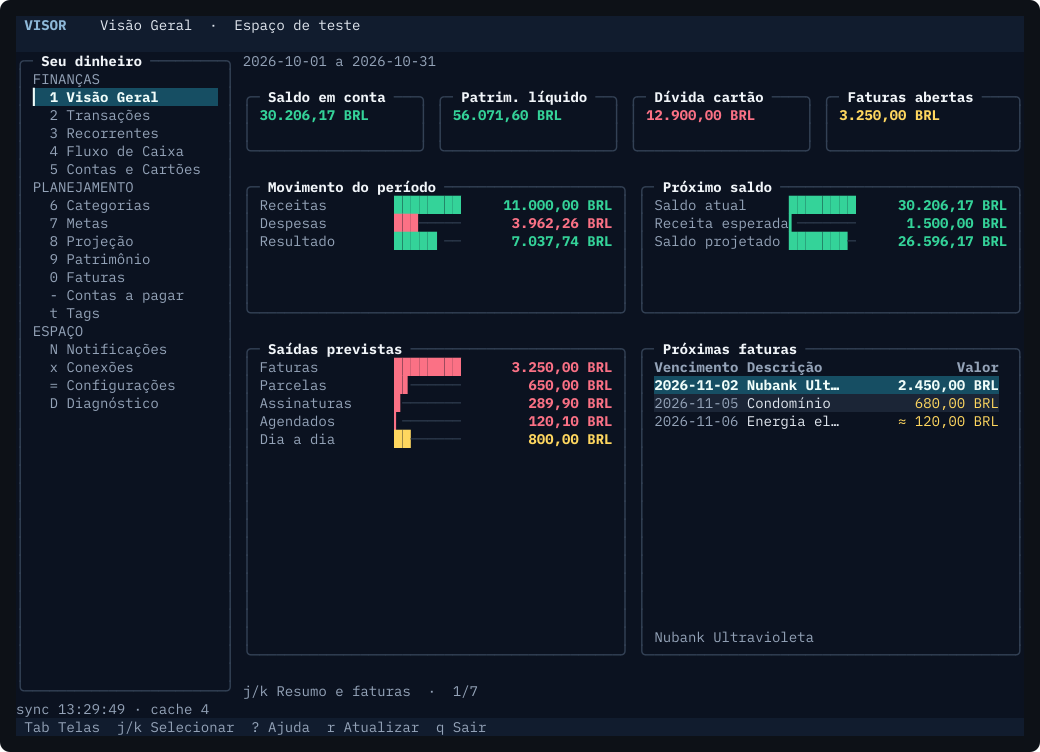
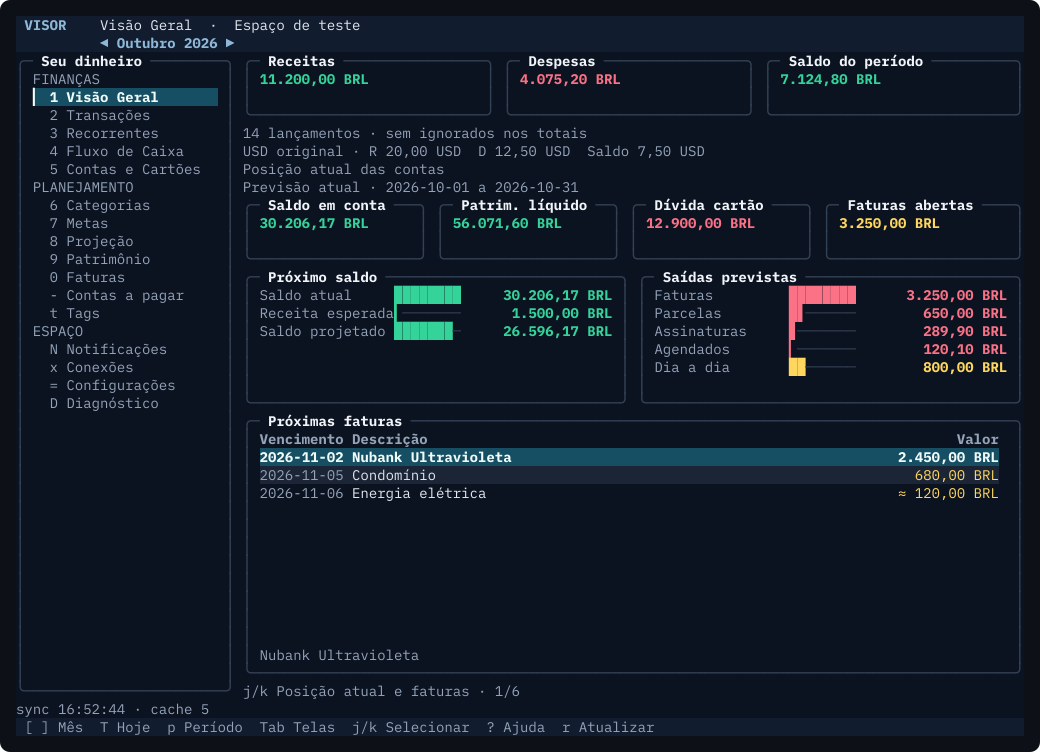
docs(ux): document calendar periods and refresh screen captures

diff --git a/UX.md b/UX.md
@@ -8,11 +8,39 @@ decimal arithmetic. Unknown totals stay unavailable, and different currencies ar
 never added together. Tables follow the selected record; short dashboards switch
 between complete financial sections with `j` and `k`.
 
-Transactions now have keyboard filters, visible active-filter chips, searchable
+Transactions have keyboard filters, visible active-filter chips, searchable
 pickers, a create/edit modal, field validation and inline API errors. Modal input
 owns the keyboard: typing screen shortcuts or pasting text cannot navigate away
 or confirm deletion. Category edit/delete actions follow the displayed hierarchy.
 Changing space resets screen data and filters, including when VISOR_SPACE is set.
+The selected calendar period persists across screens and space changes.
+
+## Calendar periods
+
+The default is the current calendar month in Brasília. The header shows the
+selected period. `[` and `]` select the previous or next calendar month relative
+to the range's start. `T` returns to the current month. `p` opens the period picker
+with Mês, Semana, Trimestre, Ano and Personalizado. Weeks start on Monday.
+Custom ranges include both endpoints and accept `DD/MM/YYYY` or `YYYY-MM-DD`.
+Invalid dates and reversed ranges stay in the picker until corrected or cancelled.
+
+Overview, Transactions, Cash Flow, Categories, Bills and Payables use the same
+range. Transaction filters affect only the transaction list and its summaries.
+Clearing filters preserves the selected period. Bills use their due date.
+Payables shows plans whose known next payment falls in the range; the API does
+not expose a historical installment schedule.
+
+The transaction list groups records by Brasília day and shows daily subtotals.
+The app fetches every page for the selected range before displaying the count
+or financial totals. A loading screen appears during the fetch. There is no
+manual load-more action or partial total.
+
+Period summaries exclude ignored transactions and sum decimal amounts exactly.
+BRL totals stay separate from totals in other currencies. The API supplies no
+transaction exchange rates or converted amounts, so foreign-currency amounts
+remain labeled in their original currency. They are never added to BRL balances.
+Current balances and projections from the overview endpoint retain their current
+scope; selected-period movement comes from the complete transaction range.
 
 ## Visual design
 
@@ -26,15 +54,15 @@ the request status.
 | --- | --- |
 | Accounts and cards | Total balance, credit limit and used credit tiles. One row per bank account with institution, type and right-aligned balance. Individual credit-card panels show usage meters, percentage, used/available/limit amounts and closing/due dates. |
 | Overview | Balance tiles, income/expense comparisons, projection panels and an upcoming-bills table. |
-| Transactions | Loaded-record summaries, a bordered table, filter chips and category-spending bars when height allows. Summaries and bars describe loaded transactions and exclude ignored entries. |
-| Cash flow | Period totals, proportional income/expense bars, projected balances and outgoing commitments. |
+| Transactions | Complete period summaries, day groups with daily subtotals and filter chips. Category and account columns fit at 120 columns; compact layouts retain summaries, with full record details on Enter. Category spending is available on Categories. |
+| Cash flow | Period totals and a daily flow table, with currencies kept separate. `j` / `k` also reaches the current forecast, projected balances and outgoing commitments. |
 | Projection | Current, expected and projected amounts, plus the components of planned spending. |
 | Net worth | Investment totals, allocation bars, one row per position and selected-position details. |
 | Goals | Active count, selected current/target amounts, progress meter and dates. |
 | Recurring | Tabs, active count, active monthly total, next due date and subscription records. Annual and inactive charges are excluded from the monthly figure. |
-| Bills | Card selector, total/paid summaries, bill records, payment meter and minimum-payment details. |
-| Payables | Status tabs, remaining totals, installment records and selected payment progress. |
-| Categories | Count tiles and a hierarchy with translated types and visible hidden state. |
+| Bills | Card selector, totals and bill records whose due dates fall in the selected range, payment meter and minimum-payment details. |
+| Payables | Status tabs, plans with a known next due date in the period, remaining totals and selected payment progress. |
+| Categories | Period spending alongside the editable category hierarchy, translated types and visible hidden state. |
 | Tags | Count tiles, native color swatches and tag names. |
 | Notifications | Unread count, inbox table and selected-message preview. |
 | Connections | Active/attention/account counts, institution status table and sync details. |
@@ -57,7 +85,18 @@ Reviewed mock-data captures:
   [80×24](docs/screenshots/80x24-accounts.png).
 - Overview at [120×40](docs/screenshots/120x40-overview.png) and
   [80×24](docs/screenshots/80x24-overview.png).
-- Transactions at [120×40](docs/screenshots/120x40-transactions.png).
+- Transactions at [120×40](docs/screenshots/120x40-transactions.png) and
+  [80×24](docs/screenshots/80x24-transactions.png).
+- Cash Flow at [120×40](docs/screenshots/120x40-cash-flow.png) and
+  [80×24](docs/screenshots/80x24-cash-flow.png).
+- Categories at [120×40](docs/screenshots/120x40-categories.png) and
+  [80×24](docs/screenshots/80x24-categories.png).
+- Bills at [120×40](docs/screenshots/120x40-bills.png) and
+  [80×24](docs/screenshots/80x24-bills.png).
+- Payables at [120×40](docs/screenshots/120x40-payables.png) and
+  [80×24](docs/screenshots/80x24-payables.png).
+- Period picker at [120×40](docs/screenshots/120x40-period-picker.png) and
+  [80×24](docs/screenshots/80x24-period-picker.png).
 
 ## Keymap
 
@@ -71,6 +110,9 @@ the current screen's keys. Mouse controls remain available.
 | `0`, `-`, `t` | Bills, Payables, Tags |
 | `N`, `x`, `=`, `D` | Notifications, Connections, Settings, Diagnostics |
 | `j` / `k`, `↓` / `↑` | Select rows or scroll financial information |
+| `[` / `]` | Previous / next calendar month |
+| `T` | Current calendar month |
+| `p` | Choose month, week, quarter, year or custom range |
 | `r` | Refresh the current screen, bypassing cache freshness |
 | `?` | Open contextual help |
 | `Esc` | Close help, cancel a dialog or go back from a picker |
@@ -78,7 +120,7 @@ the current screen's keys. Mouse controls remain available.
 
 | Screen | Additional keys |
 | --- | --- |
-| Transactions | `/` search, `f` filters, `c` clear filters, `n` new, `e` edit, `d` delete with confirmation, `Enter` details, `m` / `→` next page, `PageUp` / `PageDown` move ten rows, `Home` / `End` first / last loaded row, `E` / `Ctrl-E` export CSV |
+| Transactions | `/` search, `f` filters, `c` clear filters, `n` new, `e` edit, `d` delete with confirmation, `Enter` details, `PageUp` / `PageDown` move ten rows, `Home` / `End` first / last row, `E` / `Ctrl-E` export CSV |
 | Categories | `n` new, `e` edit, `d` delete with confirmation, `h` show hidden |
 | Tags / Goals | `n` new, `e` edit, `d` delete with confirmation |
 | Recurring | `←` / `→` switch subscriptions / fixed bills; `n`, `e`, `d` manage subscriptions |
@@ -87,6 +129,11 @@ the current screen's keys. Mouse controls remain available.
 | Payables | `←` / `→` cycle all / active / completed |
 | Notifications | `u` unread only; `m` / `Enter` mark selected notification read |
 | Settings | `s` choose space; `l` log out with confirmation |
+
+`h` / `l` and `←` / `→` also navigate months where the current screen does not
+already use them. Card selection, recurring and payable tabs, hidden-item toggles
+and logout retain their existing bindings. Forms and pickers own all input while
+open, including pasted dates and characters that are global shortcuts elsewhere.
 
 ## Transaction forms and filters
 
@@ -106,18 +153,24 @@ the current screen's keys. Mouse controls remain available.
 - After an uncertain create response, retry with `Ctrl-S` using the same body
   and idempotency key. Before cancelling and starting another transaction, check
   the list to avoid creating a duplicate.
-- Filters cover date range, account, category, tag, type, ignored state and text.
+- Filters cover account, category, tag, type, ignored state and text. Use `p`
+  to change the shared date range.
   `Ctrl-S` applies; `Ctrl-L` clears the draft; `Esc` discards changes. Outside the
-  panel, `c` clears active filters. CSV export includes active filters and writes
+  panel, `c` clears active filters. CSV export includes the period and active filters and writes
   a new file in the current directory without overwriting an existing export.
 
 ## Requests and verification
 
 Reads use a 60-second cache. Redraws and idle time do not fetch, even after the TTL.
-Screen entry and explicit actions such as applying filters, pagination and refresh
+Screen entry and explicit actions such as applying filters, changing period and refresh
 may fetch. Successful writes invalidate cached data. Reads have bounded retry and
 backoff; long `Retry-After` values become a visible cooldown. Writes respect that
 cooldown and are never retried automatically.
+
+Complete transaction results are cached by space, inclusive range and every
+filter. A page failure does not publish partial results. Repeated cursors fail
+with an error instead of looping. Refresh and successful mutations invalidate
+the complete-range cache with the other cached reads.
 
 ```sh
 cargo build
@@ -130,7 +183,11 @@ PYTHONDONTWRITEBYTECODE=1 UV_CACHE_DIR=/tmp/visor-uv-cache \
 The smoke driver runs the real binary in 120×40, 80×24 and 60×18 terminals against
 a loopback fixture, with temporary configuration and mock credentials. It exercises
 create/edit/delete, cancellation, filters, search, CSV export, refresh, modal input,
-space switching and idle behavior. The 61-second check beyond the cache TTL runs
+space switching and idle behavior. Period checks use date-filtered, multi-page
+fixtures and cover navigation, picker validation, shared ranges and cache reuse.
+Delayed responses and failed later pages verify loading, unavailable totals and
+complete recovery on retry.
+The 61-second check beyond the cache TTL runs
 at 120×40. No real account is used.
 
 For a read-only visual review of all 16 screens at the two design sizes:
@@ -144,6 +201,8 @@ PYTHONDONTWRITEBYTECODE=1 uv run --with pyte python scripts/ux_smoke.py \
 includes plain text and a color-preserving SVG. The driver isolates mock credentials,
 forces true color independently of the parent shell, checks keyboard selection and
 sidebar clicks, and rejects account mutations in visual-only mode.
+
+Export a reviewed SVG to PNG with `rsvg-convert capture.svg -o capture.png`.
 
 The redesign is verified with build, all-target Clippy with warnings denied, Rust
 tests, the complete keyboard smoke and direct inspection of every data screen at
